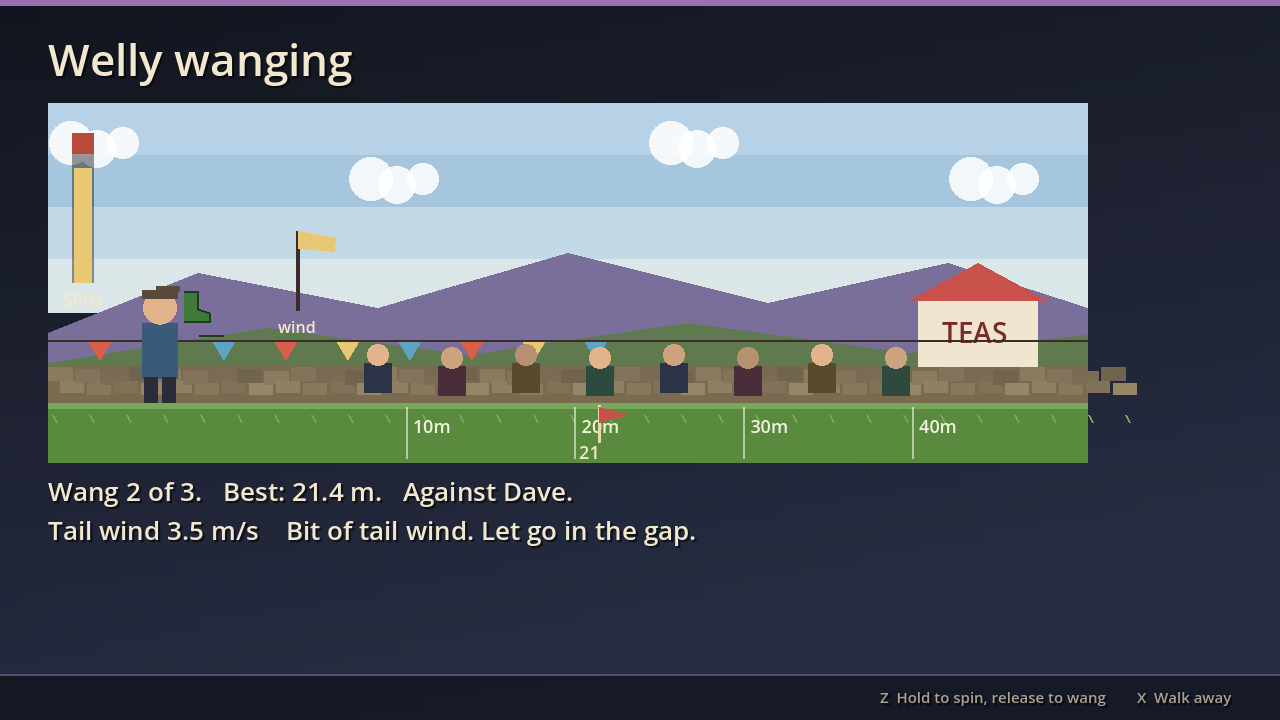
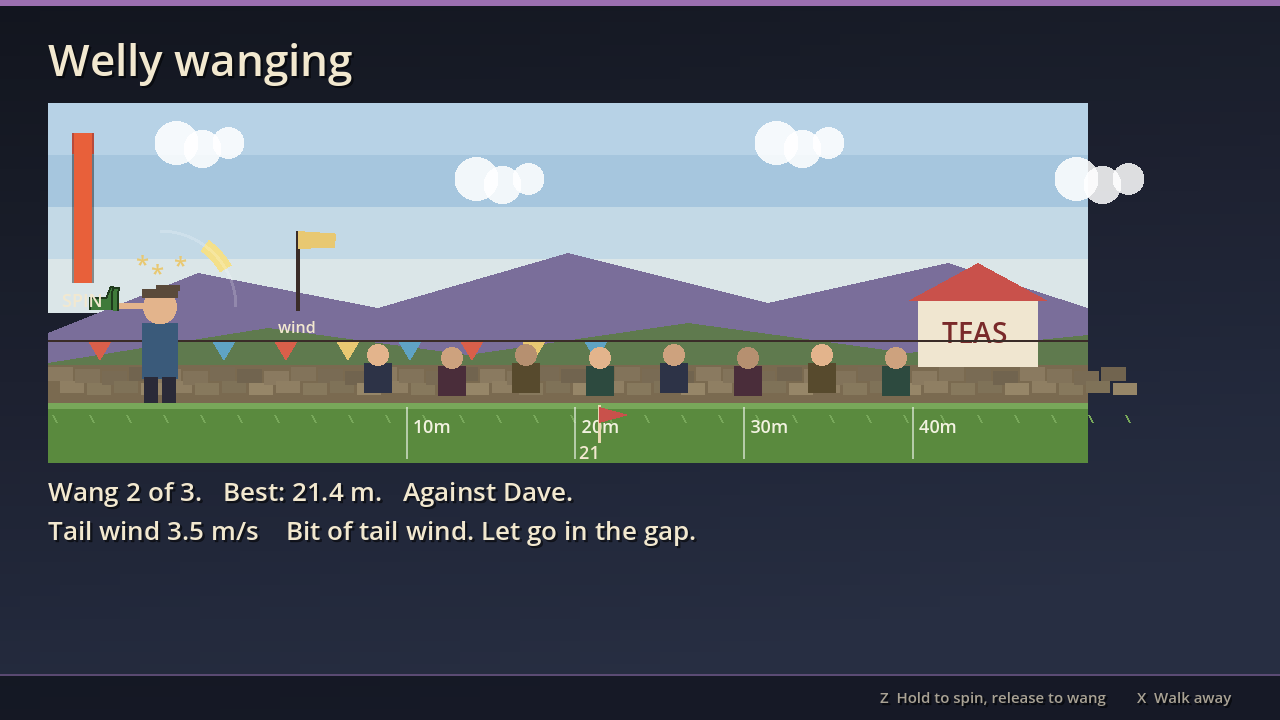
G5: NPC scripts into zone dialogue, gurning screen fix, handoff, screenshots
Claude-Session: https://claude.ai/code/session_01RxdRQyoNPdS3Yb2zkKyXDT

diff --git a/HANDOFF.md b/HANDOFF.md
@@ -1,0 +1,18 @@
+# Wave 48 G5: gurning, welly wanging, Games League
+
+Branch w48-g5-gurning.
+
+## Built
+- Gurning (Egremont Crab Fair): `core/gurning.gd`, `ui/gurning_screen.gd`, `data/gurning.json`. Simon-style faces, four directions, own note each. Keswick Gurning Judge (28,29) plus plaque.
+- Welly wanging (Upperthong): `core/welly_wang.gd`, `ui/welly_wang_screen.gd`, `data/welly_wang.json`. Hold Confirm to spin, release in the gap, wind. Saddleworth Moor Wang Steward (27,22) plus plaque. Separate from the fete power-and-angle welly.
+- Games League: `core/games_league.gd`, `ui/league_card.gd`. Stamps per game with plays > 0, from PartyPieces entries and state. Letters from the Isles Games Society at 10, 20 and all stamps ("all" needs at least 12 games listed). Keswick Games Secretary NPC (36,29) opens it. Not yet a tab of P's Almanac page: hook `menu "league"` or embed `LeagueCard` rows there.
+- Story commands `gurn`, `wang`, `league` (`story/contest_run.gd`, one case each in `story/commands.gd`, listed in `data_api/story_validator.gd`). Router menus `gurning`, `wang`, `league`. TrainerStats `gurn_best`, `welly_best` (+ Stats lines).
+- Pieces: `data/party_pieces/g5.json` (gurning: fae/night, move `gurn`; welly_wang: gale/brawn, move `welly_wang`), `data/moves/pieces_g5.json`.
+- Tests: `tests/g5/test_contests.gd`.
+
+## Integrator
+- Drop my STUB `core/party_pieces.gd` and `ui/piece_prompt.gd` for P's real ones. Both screens call `PiecePrompt.after_game(self, id, score)` once at finish. `GamesLeague` reads `data.pieces` when it exists (else the stub flag).
+- Move id `welly_wang` is mine; P's fete one was renamed gumboot_fling.
+
+## See it
+`tools/shot.sh out.png 14 --menu=gurning:dev` (also `wang:dev`, `league:dev`). Screens in `docs/screens/w48-g5-*.png`.
